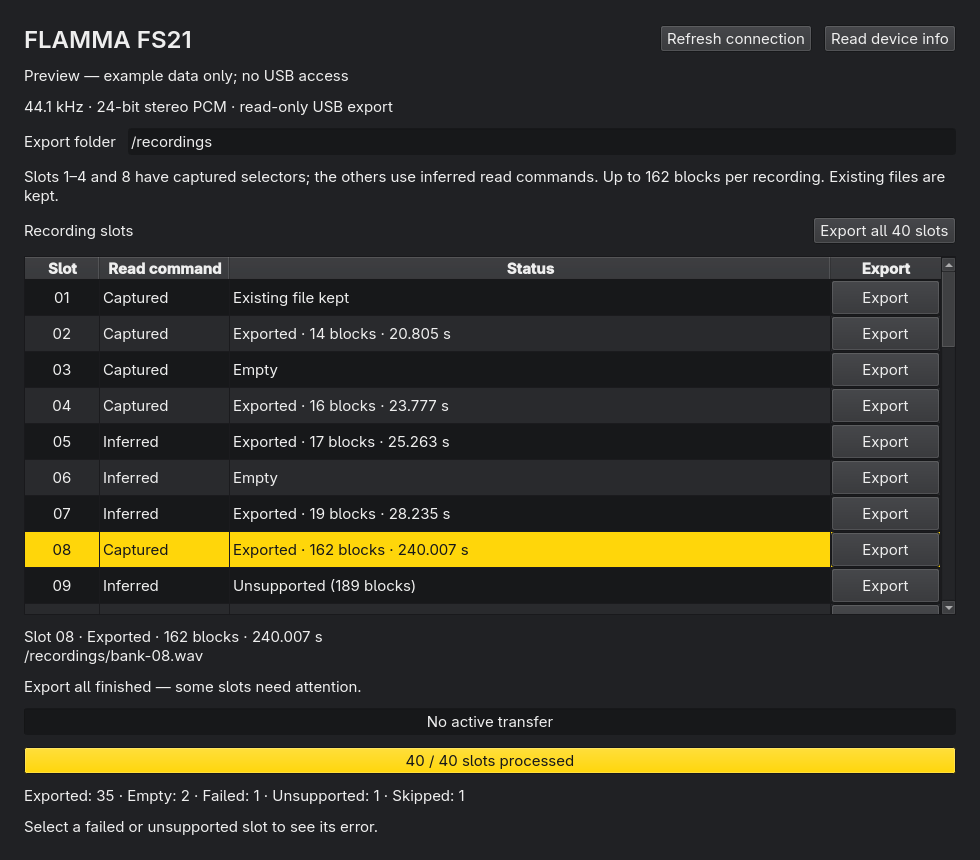
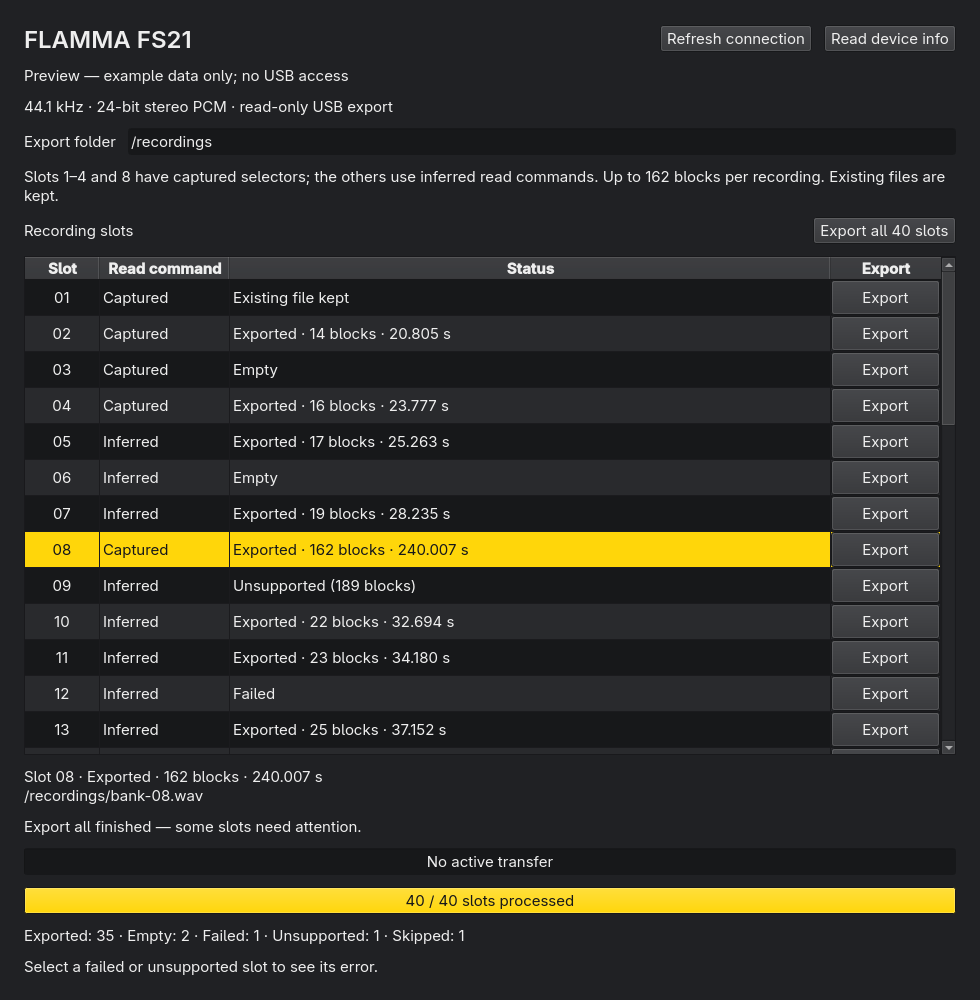
Refresh the GUI screenshot to show all export outcomes

Changed region(s): [[0.0, 0.0302, 0.9796, 0.9977], [0.6735, 0.0, 0.9796, 0.0605]]

diff --git a/tools/render_preview.py b/tools/render_preview.py
@@ -62,7 +62,7 @@ def main() -> None:
     window.task_result("export-all", BatchReport(tuple(results)))
     window.slots.selectRow(7)
     window.slots.scrollToTop()
-    window.resize(980, 860)
+    window.resize(980, 1000)
     window.show()
     app.processEvents()
     output = Path(__file__).resolve().parents[1] / "docs" / "screenshot.png"
